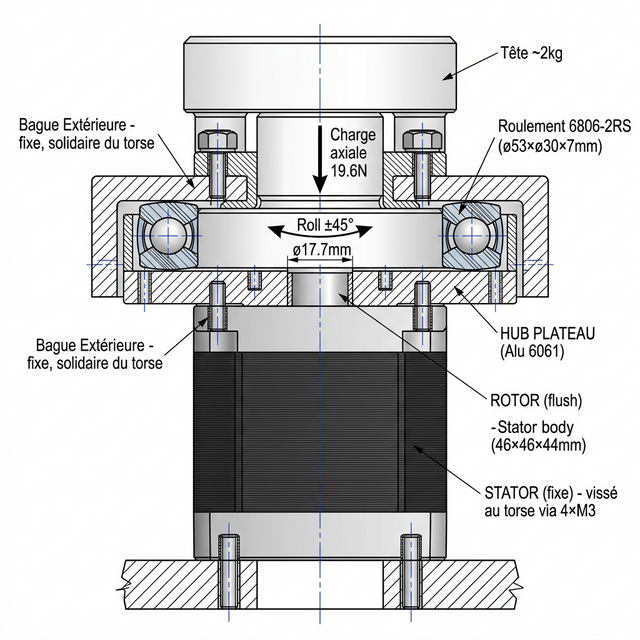
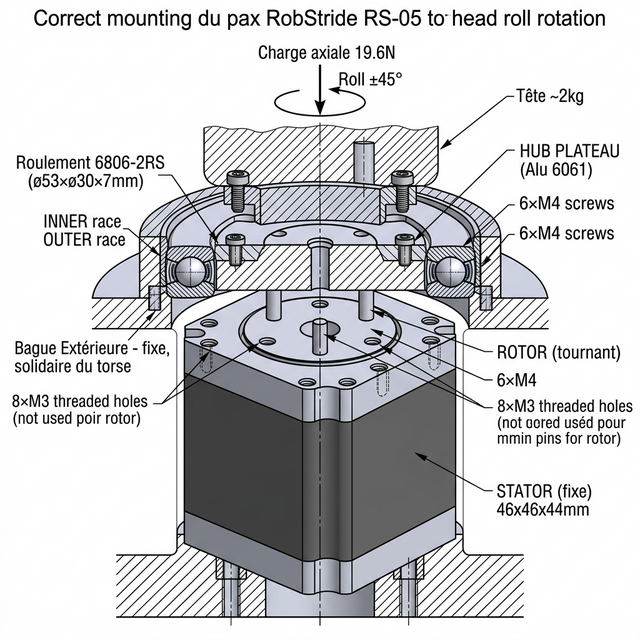
Fix: Corrected rotor mounting interface in RS-05 study to use 6xM4 and 3 pins instead of 8xM3

diff --git a/29_Etude_Montage_Cou_RS05.md b/29_Etude_Montage_Cou_RS05.md
@@ -28,9 +28,8 @@ Cette annexe détaille la conception du montage vertical d'un moteur **RobStride
 
 | Élément | Dimension |
 | :--- | :--- |
-| **Plot de centrage (boss)** | ø17.7 ±0.03 mm |
-| **Trous visserie rotor (interface principale)** | **8× M3 Profondeur 6 mm** (EQS sur ø38.5mm) |
-| **Trous visserie rotor (interface secondaire)** | **6× M4 Profondeur 3 mm** (EQS) |
+| **Trous visserie STATOR (interface périphérique)** | **8× M3 Profondeur 6 mm** (EQS sur ø38.5mm) |
+| **Trous visserie ROTOR (interface tournante)** | **6× M4 Profondeur 3 mm** (EQS sur ø24mm) + 3 plots |
 | **Alésage central côté rotor** | ø24 mm |
 | **Diamètre rotor** | ø41.5 mm |
 | **Diamètre extérieur corps moteur** | ø46 mm |
@@ -48,7 +47,7 @@ Cette annexe détaille la conception du montage vertical d'un moteur **RobStride
 
 Au lieu de poser un roulement sur un arbre (impossible ici), on crée une **pièce intermédiaire usinée (HUB)** qui :
 1. Se **centre** sur le plot ø17.7mm du rotor.
-2. Se **visse** sur les 8× M3 du rotor.
+2. S'aligne sur les **3 plots de centrage** et se **visse** sur les **6× M4** du rotor.
 3. Dépasse latéralement pour recevoir la **bague intérieure d'un roulement annulaire**.
 4. Porte la structure de la tête au-dessus.
 
@@ -71,8 +70,8 @@ Le roulement choisi est un **roulement à billes de petite section** (thin-secti
                              │ (4× vis M4 dans le HUB)
               ╔══════════════╧═══════════════╗
               ║    HUB / FLASQUE ROTATIF      ║  ← Alu 6061 usiné CNC
-              ║    (diamètre ext. : ~55 mm)   ║  ← Centrage : ø17.7mm boss
-              ║    Centré sur boss ø17.7mm    ║  ← Vissé : 8× M3 dans rotor
+              ║    (diamètre ext. : ~55 mm)   ║  ← Centrage : ø17.7mm + 3 plots
+              ║    Vissé sur ROTOR : 6× M4    ║
               ╚══╤══════════════════════╤═════╝
                  │                      │
            ┌─────┴──────┐        ┌──────┴──────┐
@@ -95,8 +94,8 @@ Le roulement choisi est un **roulement à billes de petite section** (thin-secti
                 │   ║   ┌──────────┐ ║     │   ← Rotor AFFLEURANT
                 │   ║   │ ROTOR    │ ║     │      (pas d'arbre saillant)
                 │   ║   │ face     │ ║     │
-                │   ║   │ boss ø17 │ ║     │
-                │   ║   │ 8×M3     │ ║     │
+                │   ║   │ 3 plots  │ ║     │
+                │   ║   │ 6×M4     │ ║     │
                 │   ║   └──────────┘ ║     │
                 │   ║   STATOR       ║     │
                 │   ║   (moteur)     ║     │
@@ -150,8 +149,8 @@ C'est la pièce **centrale** du montage. Elle est à usiner en **Aluminium 6061*
 | **Matériau** | Aluminium 6061-T6 |
 | **Diamètre extérieur** | ~52 mm (diamètre intérieur roulement choisi) |
 | **Épaisseur totale** | ~12 mm |
-| **Alésage de centrage** | ø17.7 mm (H7) — s'emboîte sur le boss du rotor |
-| **Trous de fixation rotor** | 8× M3 traversants (couronne ø38.5mm) |
+| **Alésage de centrage** | ø17.7 mm (H7) + 3 trous pour les plots de centrage |
+| **Trous de fixation rotor** | 6× M4 traversants (couronne ø24mm) |
 | **Trous de fixation tête** | 4× M4 en couronne supérieure |
 | **Épaulement pour bague int.** | Ø52 × 2mm de profondeur pour caler la bague intérieure |
 
@@ -159,7 +158,7 @@ C'est la pièce **centrale** du montage. Elle est à usiner en **Aluminium 6061*
 VUE DU HUB (dessus et coupe)
 
           ╔═══════════════════════╗
-          ║ ●  ●  ●  ●  ●  ●  ● ● ║  ← 8× M3 pour fixer au rotor (ø38.5mm)
+          ║   ●  ●  ●  ●  ●  ●    ║  ← 6× M4 pour fixer au rotor (ø24mm) + 3 trous plots
           ║                       ║
           ║    ┌──────────┐       ║
           ║    │ Alésage  │       ║  ← ø17.7mm H7 (centrage sur boss rotor)
@@ -228,8 +227,8 @@ SÉQUENCE DE MONTAGE (étape par étape) :
    (emmanchement serré H7/r6 ou k6 selon fits)
         ↓
 4. Poser le HUB (flasque) sur la face du rotor RS-05 :
-   - Centrage ø17.7mm boss rotor → alésage HUB H7
-   - Serrer 8× vis M3 à couple approprié (~0.3 N.m)
+   - Centrage ø17.7mm boss rotor + alignement sur les 3 plots
+   - Serrer 6× vis M4 à couple approprié (~1.5 N.m)
         ↓
 5. La bague intérieure du 6806 s'emboîte sur l'épaulement ø30mm du HUB
    (emmanchement tournant : H7/k6 ou légèrement serré)
@@ -276,7 +275,7 @@ G_roll = 2 × 9.81 × 0.05 × sin(45°) ≈ 0.69 N.m
 | Roulement thin-section | **6806-2RS** (30×42×7mm) | 1-2 | ~4-6 € | SKF, NSK, Amazon |
 | HUB Flasque | Alu 6061 ø55 épaisseur 12mm (CNC) | 1 | Usinage maison | Stock alu |
 | Carter logement | Alu 6061 (CNC) ou PA12-CF | 1 | Usinage/impression | Stock |
-| Visserie | 8× M3×8 CHC (fixation hub→rotor) | 1 | ~0.50 € | Visserie standard |
+| Visserie | 6× M4×8 CHC (fixation hub→rotor) | 1 | ~0.50 € | Visserie standard |
 | Visserie | 4× M4 (fixation tête→hub) | 1 | ~0.50 € | Visserie standard |
 
 **Coût total ajouté** : **< 15 €** pour une solution professionnelle et durable.
@@ -287,6 +286,6 @@ G_roll = 2 × 9.81 × 0.05 × sin(45°) ≈ 0.69 N.m
 
 > **🟢 Le montage avec roulement de support est fortement recommandé, avec l'architecture HUB + roulement annulaire 6806-2RS.**
 >
-> La particularité du RS-05 (rotor affleurant, sans arbre saillant) impose de concevoir un **HUB flasque usiné CNC** centré sur le boss ø17.7mm et boulonné via les 8× M3 du rotor. Ce hub porte la bague intérieure d'un roulement annulaire 6806-2RS, dont la bague extérieure est noyée dans un carter fixe solidaire du torse.
+> La particularité du RS-05 (rotor affleurant, sans arbre saillant) impose de concevoir un **HUB flasque usiné CNC** centré sur le boss ø17.7mm et les 3 plots de centrage, puis boulonné via les 6× M4 du rotor. Ce hub porte la bague intérieure d'un roulement annulaire 6806-2RS, dont la bague extérieure est noyée dans un carter fixe solidaire du torse. (Les 8× M3 périphériques du moteur appartiennent au stator et ne doivent pas être rattachés au rotor).
 >
 > Cette architecture transfère **100% des charges statiques** (poids de la tête, moments de basculement) vers le torse via le roulement, laissant au RS-05 sa seule mission : **générer un couple de Roll pur**. C'est une solution standard dans l'industrie des supports de caméra gyrostabilisés et des plateaux tournants.
